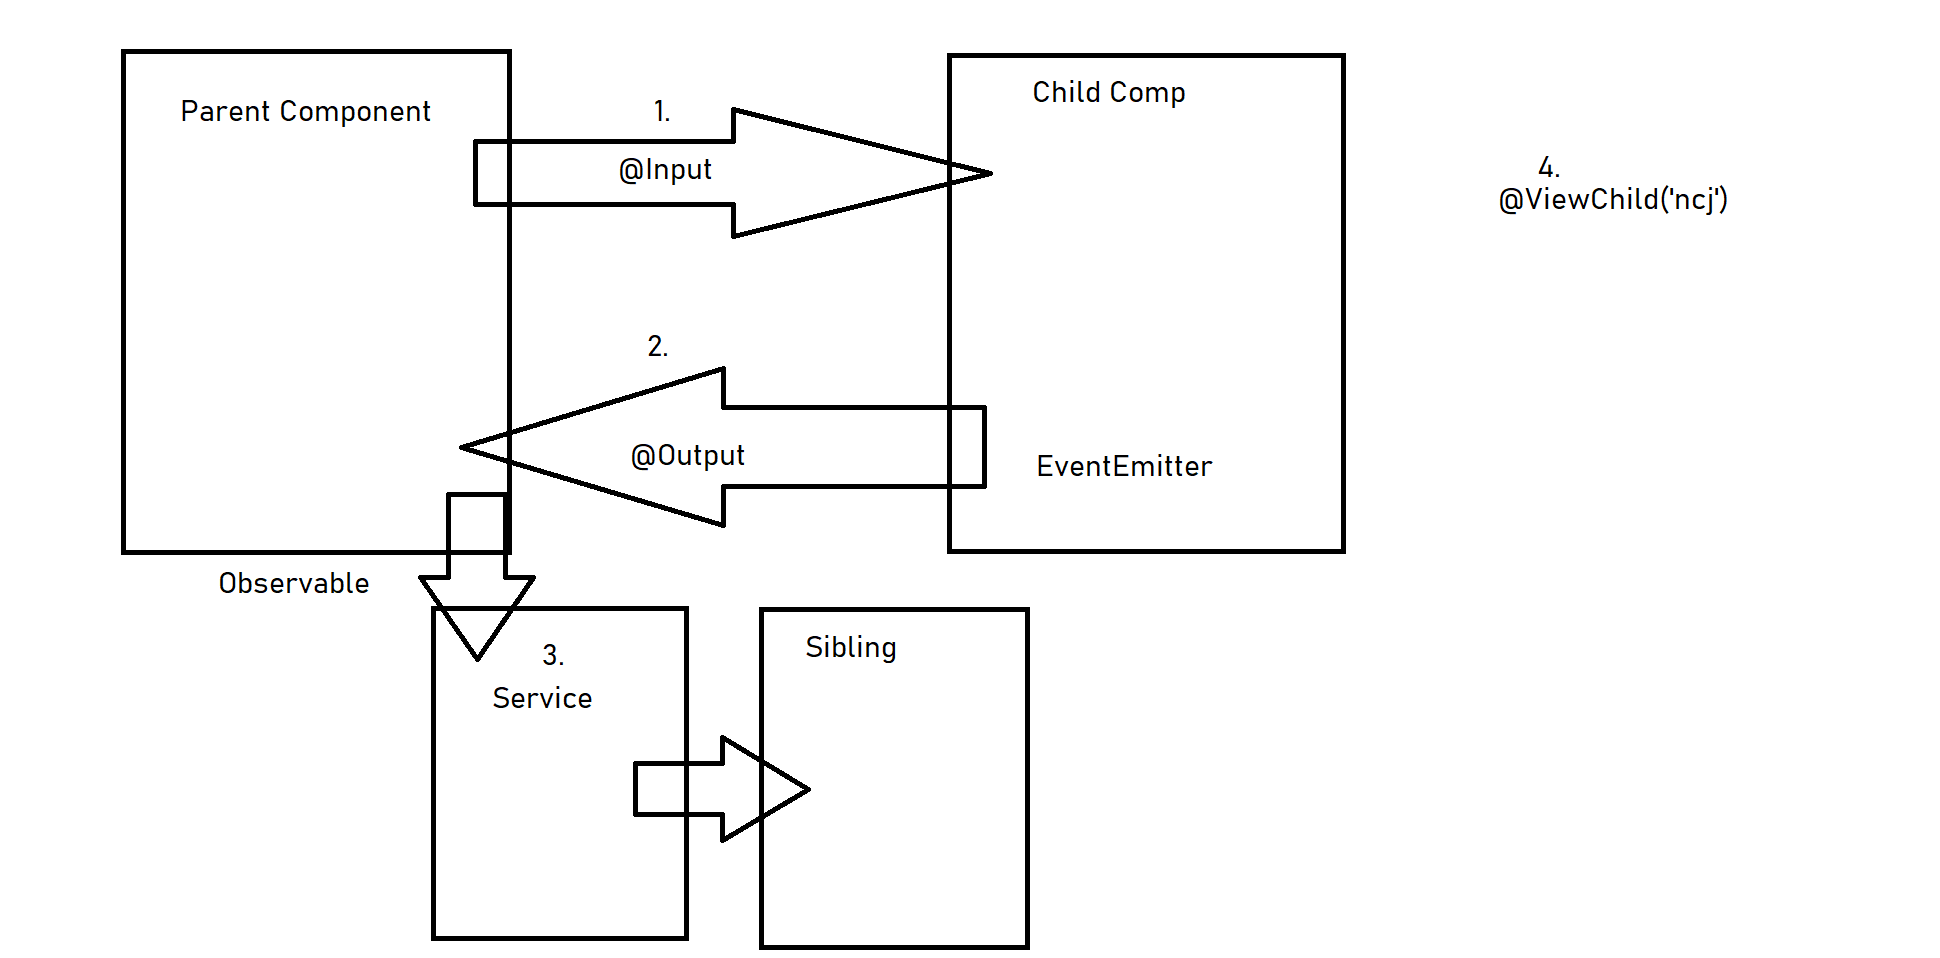
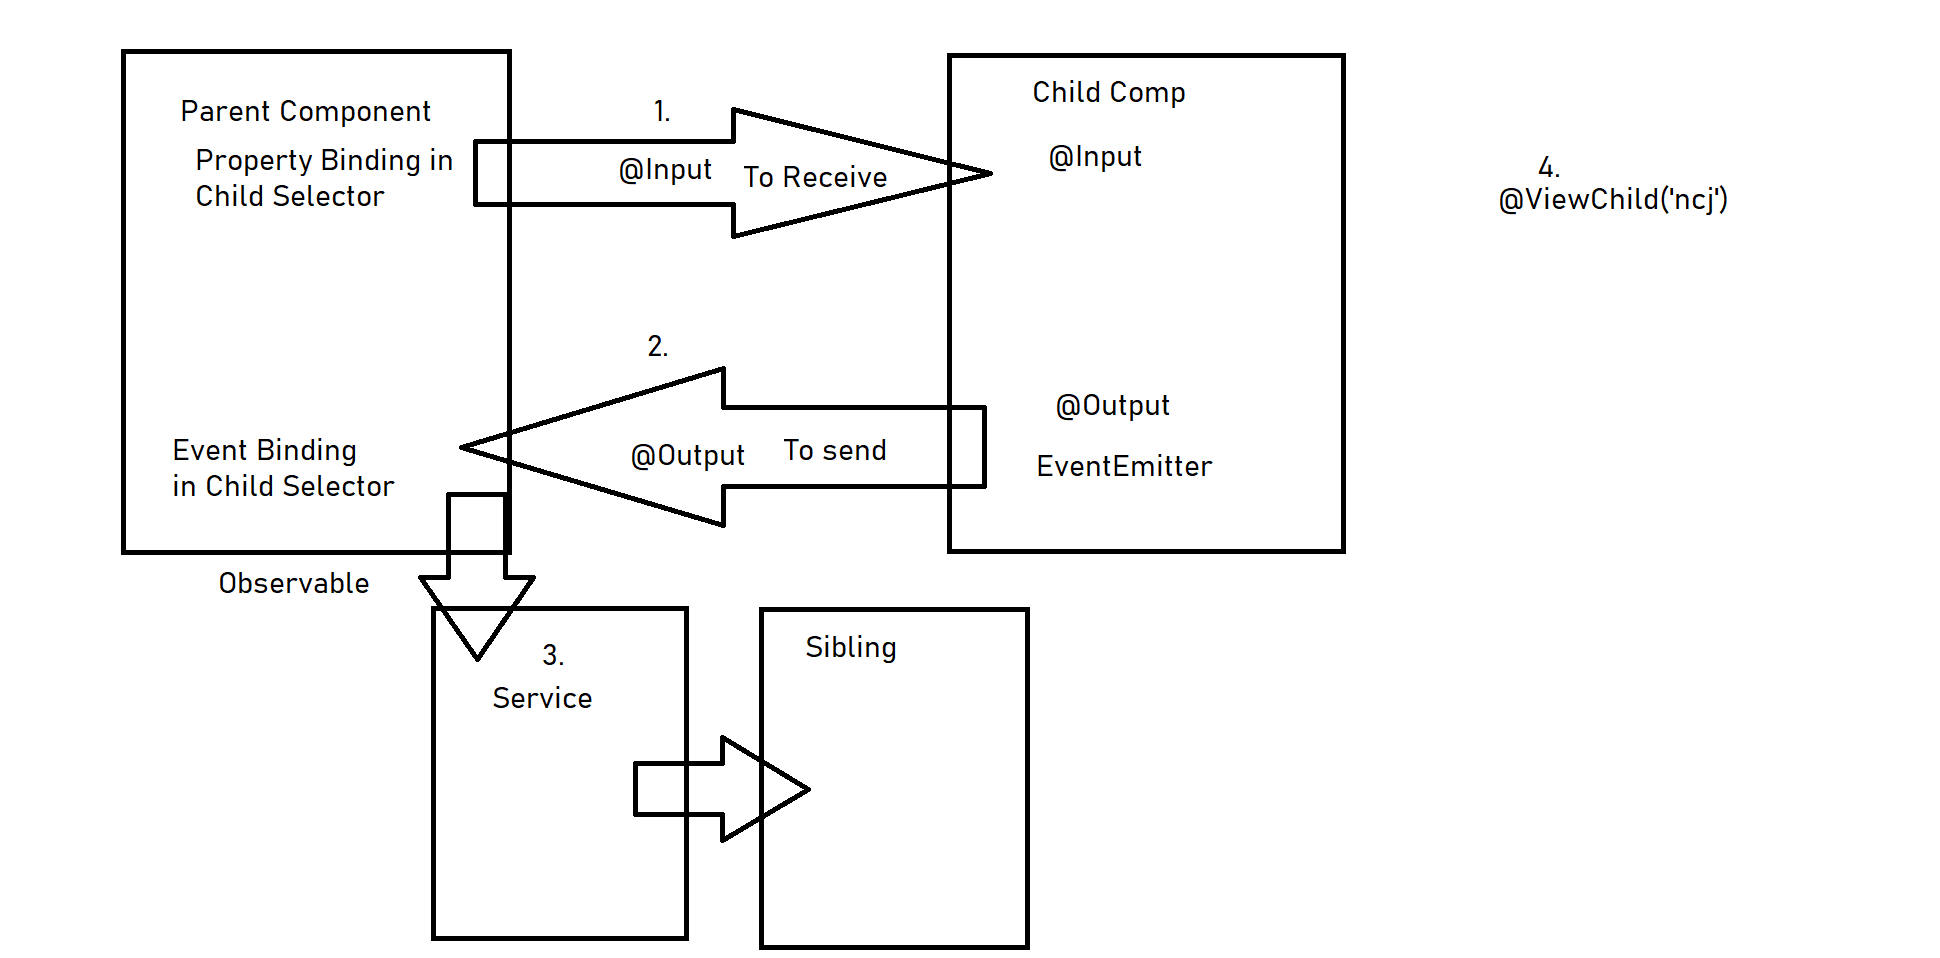
sharing data between unrelated

diff --git a/src/app/app.module.ts b/src/app/app.module.ts
@@ -10,6 +10,7 @@ import { BackgroundDirective } from 'src/app/directives/background.directive';
 import { CustomifDirective } from './directives/customif.directive';
 import { ParentComponent } from './parent/parent.component';
 import { ChildComponent } from './parent/child/child.component';
+import { SiblingComponent } from './sibling/sibling.component';
 @NgModule({
   declarations: [
     AppComponent,
@@ -20,6 +21,7 @@ import { ChildComponent } from './parent/child/child.component';
     CustomifDirective,
     ParentComponent,
     ChildComponent,
+    SiblingComponent,
   ],
   imports: [BrowserModule, AppRoutingModule, FormsModule, ReactiveFormsModule],
   providers: [],

diff --git a/src/app/sibling/sibling.component.spec.ts b/src/app/sibling/sibling.component.spec.ts
@@ -1,0 +1,25 @@
+import { async, ComponentFixture, TestBed } from '@angular/core/testing';
+
+import { SiblingComponent } from './sibling.component';
+
+describe('SiblingComponent', () => {
+  let component: SiblingComponent;
+  let fixture: ComponentFixture<SiblingComponent>;
+
+  beforeEach(async(() => {
+    TestBed.configureTestingModule({
+      declarations: [ SiblingComponent ]
+    })
+    .compileComponents();
+  }));
+
+  beforeEach(() => {
+    fixture = TestBed.createComponent(SiblingComponent);
+    component = fixture.componentInstance;
+    fixture.detectChanges();
+  });
+
+  it('should create', () => {
+    expect(component).toBeTruthy();
+  });
+});

diff --git a/src/app/app-routing.module.ts b/src/app/app-routing.module.ts
@@ -3,6 +3,7 @@ import { Routes, RouterModule } from '@angular/router';
 import { LoginComponent } from './login/login.component';
 import { CategoryComponent } from '../app/category/category.component';
 import { ParentComponent } from './parent/parent.component';
+import { SiblingComponent } from './sibling/sibling.component';
 
 const routes: Routes = [
   { path: 'login', component: LoginComponent },
@@ -13,6 +14,10 @@ const routes: Routes = [
   {
     path: 'parent',
     component: ParentComponent,
+  },
+  {
+    path: 'sibling',
+    component: SiblingComponent,
   },
 ];
 

diff --git a/src/app/sibling/sibling.component.ts b/src/app/sibling/sibling.component.ts
@@ -1,0 +1,20 @@
+import { Component, OnInit } from '@angular/core';
+import { DataService } from '../services/data/data.service';
+
+@Component({
+  selector: 'app-sibling',
+  templateUrl: './sibling.component.html',
+  styleUrls: ['./sibling.component.css'],
+})
+export class SiblingComponent implements OnInit {
+  constructor(private dataService: DataService) {}
+
+  message: string;
+
+  ngOnInit(): void {
+    this.dataService.currentMessage.subscribe(
+      (data) => (this.message = data),
+      (err) => console.log(err)
+    );
+  }
+}

diff --git a/src/app/parent/parent.component.ts b/src/app/parent/parent.component.ts
@@ -1,4 +1,5 @@
 import { Component, OnInit } from '@angular/core';
+import { DataService } from 'src/app/services/data/data.service';
 
 @Component({
   selector: 'app-parent',
@@ -10,11 +11,14 @@ export class ParentComponent implements OnInit {
 
   datafromchild;
 
-  constructor() {}
+  constructor(private dataService: DataService) {}
 
   ngOnInit(): void {}
 
   recieveData($event) {
     this.datafromchild = $event;
+  }
+  sendMessage() {
+    this.dataService.changeMessage(this.username);
   }
 }

diff --git a/src/app/services/data/data.service.ts b/src/app/services/data/data.service.ts
@@ -1,0 +1,15 @@
+import { Injectable } from '@angular/core';
+import { BehaviorSubject } from 'rxjs';
+
+@Injectable({
+  providedIn: 'root',
+})
+export class DataService {
+  private messageSource = new BehaviorSubject('Default');
+  currentMessage = this.messageSource.asObservable();
+  constructor() {}
+
+  changeMessage(message: string) {
+    this.messageSource.next(message);
+  }
+}

diff --git a/src/app/nav-bar/nav-bar.component.html b/src/app/nav-bar/nav-bar.component.html
@@ -19,6 +19,9 @@
         <li class="nav-item">
           <a class="nav-link" routerLink="/parent">Parent</a>
         </li>
+        <li class="nav-item">
+          <a class="nav-link" routerLink="/sibling">Sibling</a>
+        </li>
       </ul>
       <span class="navbar-text">
         Navbar text with an inline element

diff --git a/src/app/parent/parent.component.html b/src/app/parent/parent.component.html
@@ -9,7 +9,7 @@
           class="form-control"
           placeholder="Type Username"
         />
-
+           <button class="btn btn-primary" (click)="sendMessage()">Send to Sibling</button> 
         <br/>
         <p>{{datafromchild}}</p>
 

diff --git a/src/app/sibling/sibling.component.html b/src/app/sibling/sibling.component.html
@@ -1,0 +1,10 @@
+
+
+<div class="siblingBox">
+    <div class="container">
+        <h1 style="border: 1px solid black;">
+        Sibling Component
+        </h1>
+        <p>{{message}}</p>
+    </div>
+</div>

diff --git a/src/app/sibling/sibling.component.css b/src/app/sibling/sibling.component.css
@@ -1,0 +1,7 @@
+.siblingBox{
+    padding :20px;
+    border : 2px solid rgb(0, 68, 255);
+    margin : 20px;
+    width: 500px;
+    height: 500px;
+}
